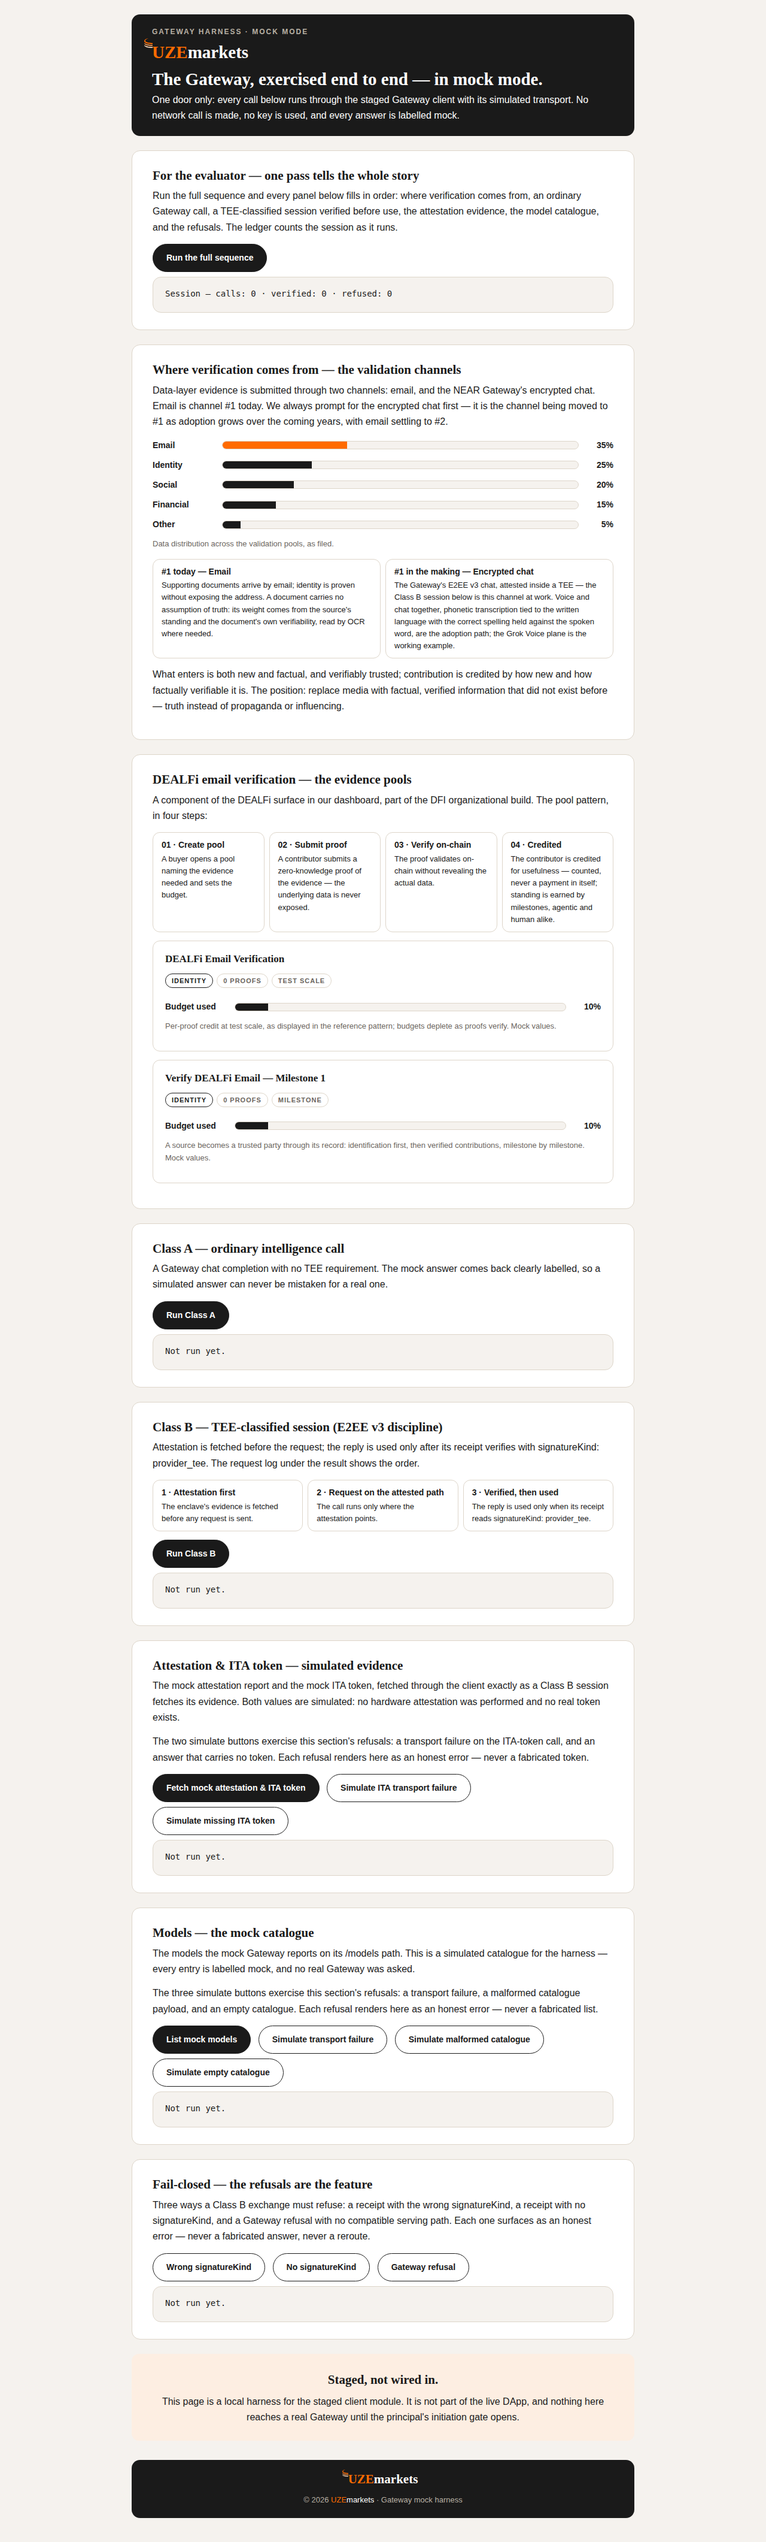
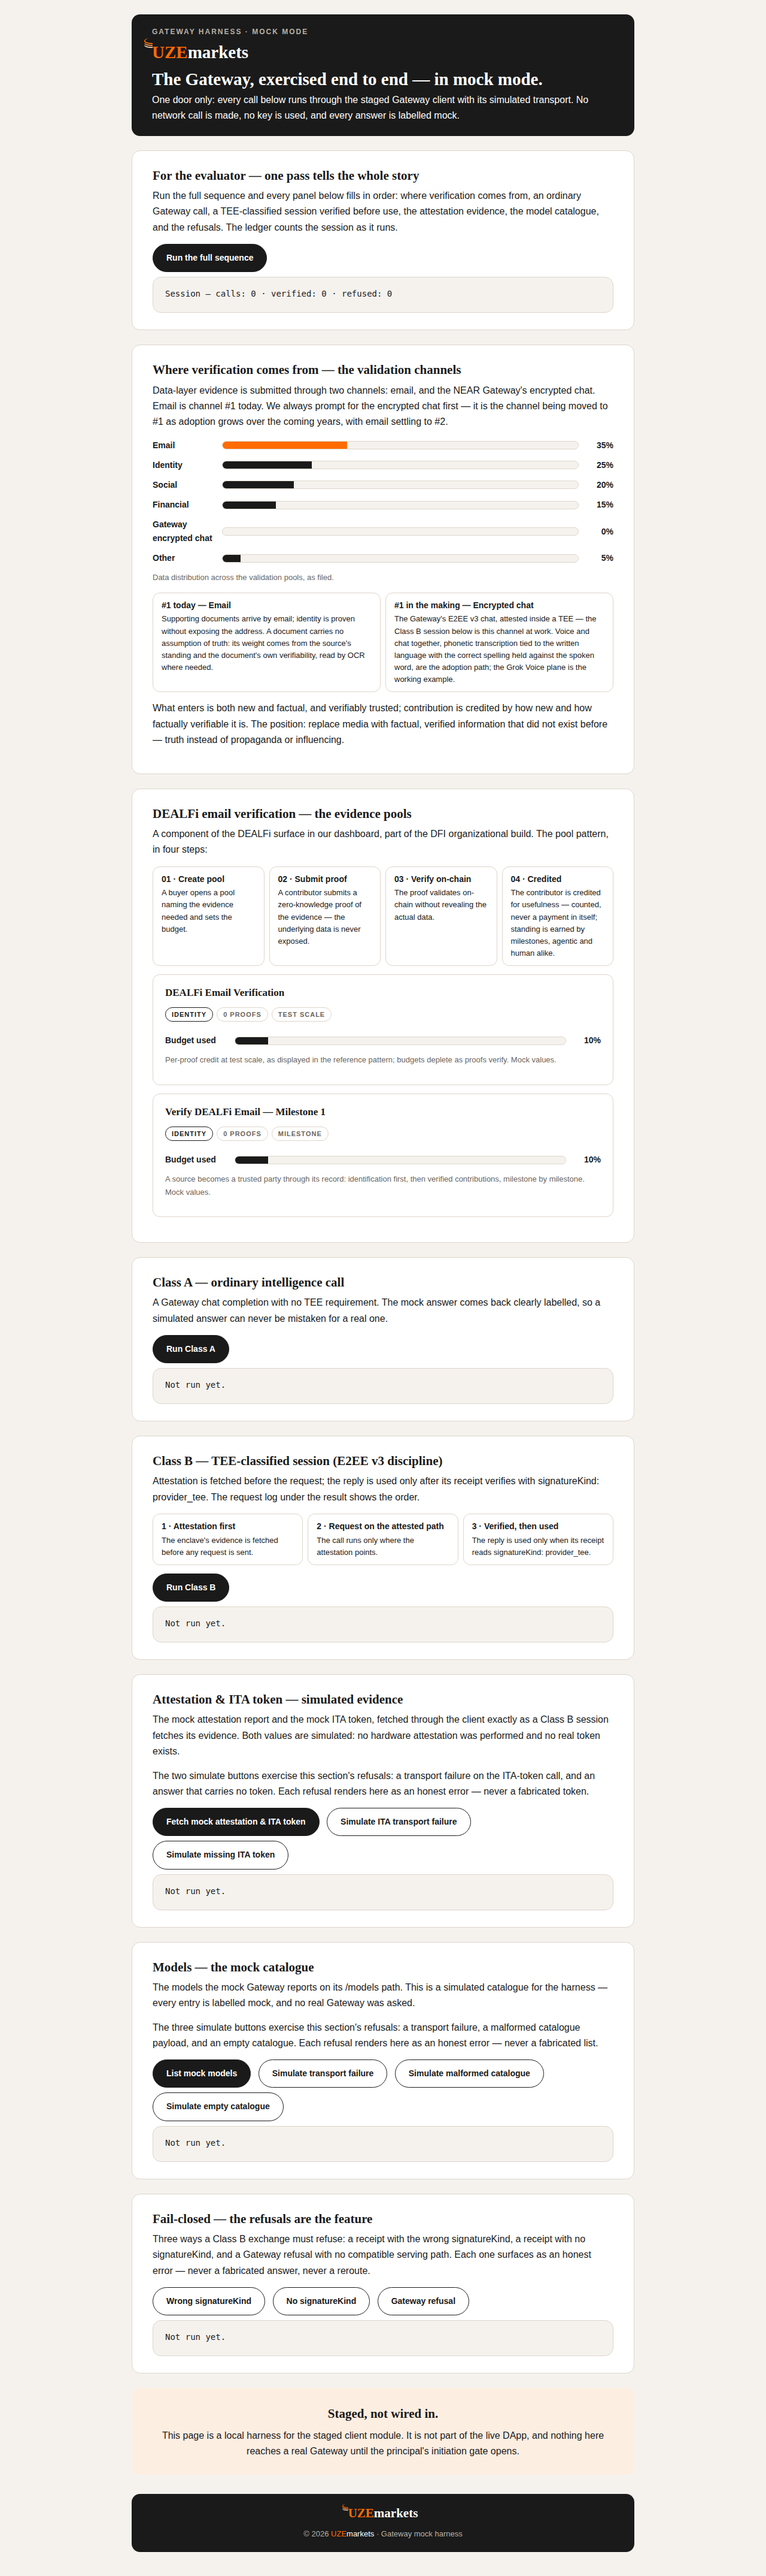
Distribution gauge: Gateway encrypted chat listed at 0% above Other (principal's direction) — always listed, even at zero

Changed region(s): [[0.1875, 0.0, 0.8125, 0.9022], [0.3125, 0.9333, 0.6875, 0.9955], [0.6875, 0.84, 0.75, 0.8711]]

diff --git a/dapp/gateway/demo.html b/dapp/gateway/demo.html
@@ -106,6 +106,7 @@
       <div class="row"><span class="name">Identity</span><span class="track"><span class="fill" style="width:25%"></span></span><span class="pct">25%</span></div>
       <div class="row"><span class="name">Social</span><span class="track"><span class="fill" style="width:20%"></span></span><span class="pct">20%</span></div>
       <div class="row"><span class="name">Financial</span><span class="track"><span class="fill" style="width:15%"></span></span><span class="pct">15%</span></div>
+      <div class="row"><span class="name">Gateway encrypted chat</span><span class="track"><span class="fill" style="width:0%"></span></span><span class="pct">0%</span></div>
       <div class="row"><span class="name">Other</span><span class="track"><span class="fill" style="width:5%"></span></span><span class="pct">5%</span></div>
     </div>
     <p class="meta">Data distribution across the validation pools, as filed.</p>

diff --git a/dapp/gateway/demo.test.js b/dapp/gateway/demo.test.js
@@ -314,6 +314,8 @@ function ok(name) {
   assert.ok(html.includes('We always prompt for the encrypted chat first'),
     'the channel-order doctrine must be stated: encrypted chat prompted first');
   assert.ok(html.includes('E2EE v3'), 'the encrypted chat channel must name E2EE v3');
+  assert.ok(html.includes('Gateway encrypted chat') && html.includes('0%'),
+    'the gauge must list Gateway encrypted chat at 0%, above Other');
   ok('validation channels: distribution rendered (35/25/20/15/5), email #1 today, encrypted chat prompted first toward #1');
 
   // DEALFi evidence pools: the filed pool pattern + the milestone card,

diff --git a/dapp/gateway/section6/report.md b/dapp/gateway/section6/report.md
@@ -1,7 +1,7 @@
 # Design gate report
 
 - Target: /home/hatch/workspace/ghpages-push/dapp/gateway/demo.html
-- When: 2026-11-28T04:59:06.496Z
+- When: 2026-11-28T05:13:11.088Z
 - Chrome: /home/hatch/.cache/puppeteer/chrome/linux-157.0.8103.78/chrome-linux64/chrome
 - Verdict: PASS
 - Failures: none
@@ -20,30 +20,9 @@ DESIGN GATE — /home/hatch/workspace/ghpages-push/dapp/gateway/demo.html
 GATE: PASS
 ```
 
-## Main-seat improvement pass — 2026-11-28 ~00:05 ET (principal's direction)
+## Addendum — 2026-11-28 ~00:14 ET (principal's direction, from his phone)
 
-Built on the principal's direct order ("Build the goddamn thing now, correctly"),
-after his correction that the validation-channels doctrine had been filed but
-never rendered on any surface:
-
-- **Validation channels section** — the filed distribution rendered
-  (Email 35 · Identity 25 · Social 20 · Financial 15 · Other 5), email marked
-  channel #1 today, the NEAR Gateway encrypted chat (E2EE v3) presented as the
-  channel prompted first and being moved to #1, email settling to #2; the
-  no-assumption-of-truth rule and the truth position carried in the copy.
-- **DEALFi email verification pools section** — the pool pattern from the
-  principal's supplied screens, under DEALFi naming (the struck term appears
-  nowhere; a test guards it): four steps (Create pool · Submit proof · Verify
-  on-chain · Credited — usefulness counted) + the DEALFi Email Verification
-  pool card and the Verify DEALFi Email — Milestone 1 card, mock values
-  labelled.
-- **Evaluator's guide + Run the full sequence** — one click runs all seven
-  flows in order; a session ledger counts calls / verified / refused live.
-- **Class B step indicator** — attestation first · request on the attested
-  path · verified, then used.
-
-Tests: demo.test.js 23/23 (19 prior + 4 new: channels, pools + struck-term
-guard, run-all wiring, rendered run-all ledger 7/3/3) · gateway-client.test.js
-7/7 unmodified. Design gate: PASS — palette 8/8 house tokens, wordmark
-one-line at 420px, screenshots regenerated above and visually checked
-(header/footer lockup, channels panel, pool cards).
+The distribution gauge now lists **Gateway encrypted chat at 0%**, immediately
+above Other — the channel is always listed, even at zero share today; omitting
+it is self-defeating (the principal's words). Tests 23/23 (channels check
+extended to assert the row), gate PASS, screenshots regenerated.
